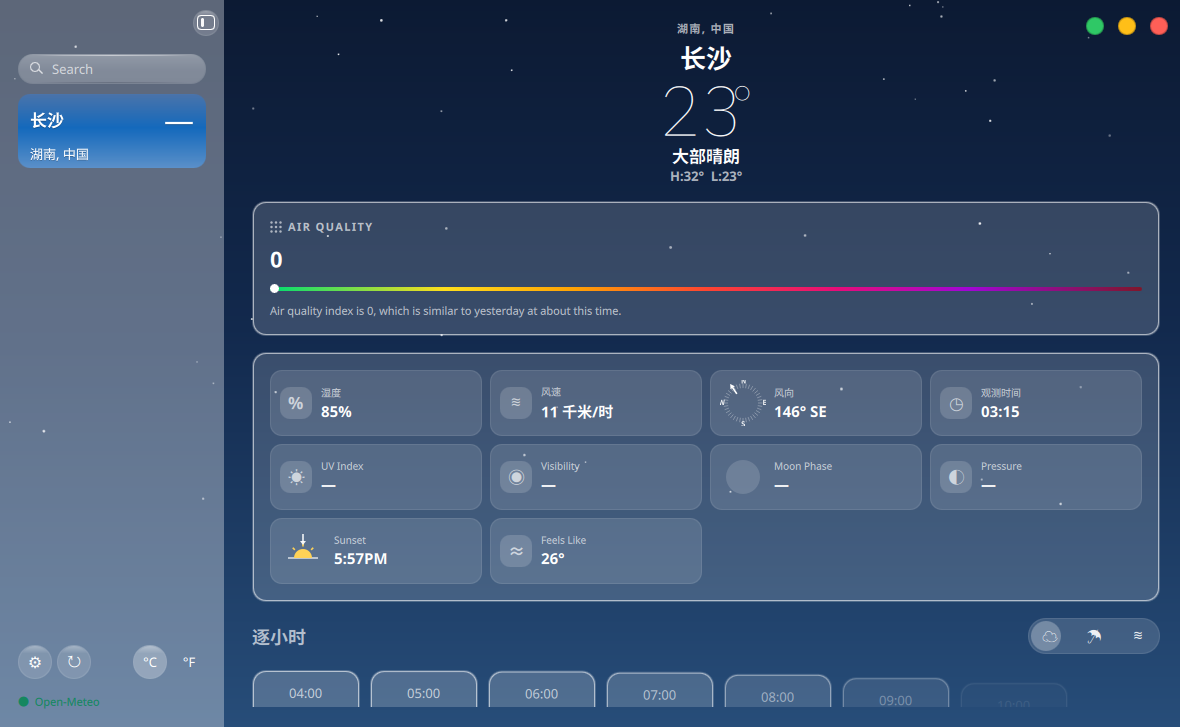
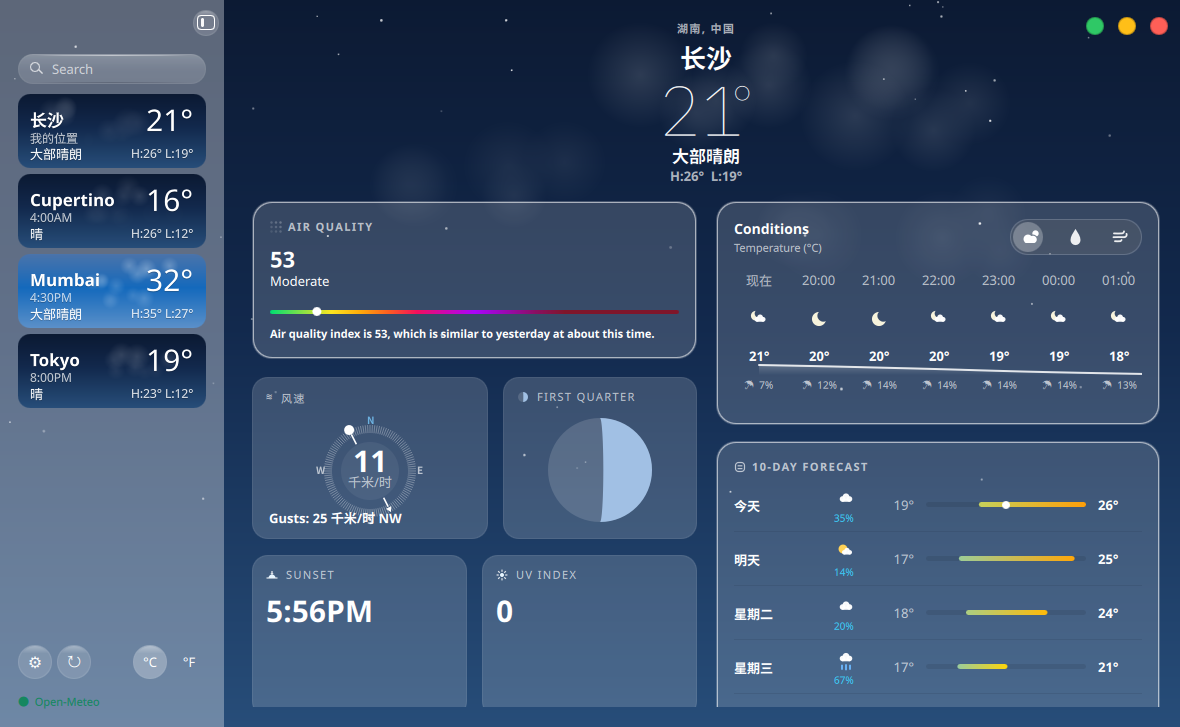
docs: round 53 进度与截图

diff --git a/docs/ui-weather/LEDGER.md b/docs/ui-weather/LEDGER.md
@@ -4,6 +4,10 @@
 参考实测色（814×498 主图采样）：天空 `#2961a7→#1469bc→#538ec9`（上→下，含云照片）；Conditions 卡 `#0057b2`；hero 文本 `#ffffff`；10天条渐变 青→黄→橙。
 
 ## 已改
+- **10 天行恢复暗色全宽轨道（本轮，前端，零 Go/C++/shared/翻译改动，巡检轮新发现，推翻旧"去灰色轨道"轮的测量）**：本轮对照 tile-10day（iPad 原生分辨率切片）+ ref-main Pillow 复测，证实旧记载"ref-main 10 天行无轨道"系测量失误——旧轮把**轨道色** (42,109,179) 误当卡面色，真实卡面 Thu 行是 (49,120,196)；ref-main 五条可见行（Today y346-349 / Thu y382-386 / Fri y419-420 / Sat y455-456 / Sun y491-492）低/高温标签间**整列**均有固定全宽暗轨道：高 ~5px、圆角胶囊、比卡面暗 Δ≈(-7,-12,-16) ≈ 黑@0.08-0.10（各行 α 离散 0.067-0.13）；tile-10day 独立佐证（四行轨道 x266-419、高 ~8-9px、卡面 (44,119,196)→轨道 (42,108,179)）。旧"白@0.28 亮轨道"删除方向仍正确（参考轨道是**暗**的不是亮的）。`apps/weather/qml/Main.qml:3177-3188` 渐变条前插入全宽轨道 Rectangle（x:0 / width:parent.width / height:5 / radius:2.5 / #000000@opacity 0.09，注释标明复测依据）；渐变条几何/渐变/Today 白点/行 delegate 零改动。
+  **实测**（本轮二进制截图 tmp/shots/track-1792324349.png 过体检闸 ✅ 1180×727，dev env + KOS_SCREENSHOT_DELAY_MS=2500）：今天行轨道 (58,81,111) vs 卡面 (64,89,122) = **黑@0.09 精确命中**；星期三行两侧轨道 (65,92,125) vs 卡面 (71,101,137) 夹短渐变 x960-1005（两侧可见=全宽实证）；轨道高 5px（y664-668）与 ref 5px 同；今天行轨道右侧被 uMax=1.0 渐变覆盖与 ref Today 行同构；目视 /tmp/z-10day-new.png：四行渐变下细微暗轨道、与 tile-10day 同构。
+  **回归**（vs 改前 patrol-1792323915，2px 步进 diff>24）：全窗仅 10 采样全落星空/时钟已知噪声族（轨道 Δ≈12 低于该阈值系参考级细微度，非缺席）；10 天卡区 diff>6 共 **1430px 全落 4 条 bar 行 y502-668**、整窗 MAE **0.020**——区外零结构位移。测试 Qt 6/6 绿、go test ok。本轮无动效改动，无帧差义务。
+  **残差**：a) 轨道端头与栏缘的 1-2px 内缩（ref 轨道左端 x638 vs 低标签尾 x636）未做（墨迹级）；b) 黑@0.09 系各行实测 α 的中值折中（ref 0.067-0.13 离散），日景卡面上的观感本轮夜景未覆盖，见外推待确认。
 - **SUNSET/UV 两张卡头 mini glyph 黄色 → 参考实测浅蓝白（本轮，前端，零 Go/C++/shared/翻译改动，巡检轮新发现）**：巡检截图（tmp/shots/patrol-1792323546.png 过体检闸 ✅ 1180×727，dev env + KOS_SCREENSHOT_DELAY_MS=2500）对照 ref-main 实测推翻旧记载"参考卡头图标太小无法采样"——Pillow 扫 ref SUNSET/UV INDEX 卡头 glyph 波段（x262-515 y418-447）：**暖色像素（r-b>25 且 r>120）= 0**、亮像素峰值 (224,240,255)/(239,251,255)（白/浅蓝系，与头部文字同族略亮）；WIND 卡头同检亦 0 暖色；黄色（r>140,g>110,b<130）= 0。我方 `apps/weather/qml/Main.qml:2256`（sunsetGlyphCanvas 太阳半圆 fill）与 `:2358`（UV glyph 日盘 fill）均为 `#ffd257` 黄色，与参考相反。两处 → `"#e7f5ff"`（实测峰值系中上档，注释标明依据），描边/射线/箭头/地平线/几何零改动。
   **实测**（本轮二进制截图 tmp/shots/glyphcolor-1792323775.png 过体检闸 ✅ 1180×727）：SUNSET 半圆采样 (231,245,255)、UV 日盘采样 (231,245,255) = **#e7f5ff 精确命中**；目视 /tmp/z-my-glyphs-new.png：两 glyph 浅蓝白、与头部文字同族协调、无硬边。
   **回归**（vs 改前 patrol-1792323546，2px 步进 diff>72）：变化仅 14 采样——6 落两 glyph 本体、8 稀疏散点 (316,16)/(74,46)/(884,78)/(990,120) 等（星空/时钟已知噪声族），整窗零结构位移。测试 Qt 6/6 绿、go test ok。本轮无动效改动，无帧差义务。
@@ -370,10 +374,11 @@
 15. ~~**分段胶囊水滴 glyph 偏小**~~（**已做**，见已改首条——canvas 12×16→15×20 坐标 ×1.25，墨 8×11→9×15、相对比 0.306→0.417 vs ref 0.386；残差：宽 −1/高 +1 反向各 1px，AA 级不再动。**注意**：同族"云+日偏小"不成立（勿动）；风 glyph 邻域吻合（✓），两条防误改裁定继续有效）。
 
 ## 外推待确认
+- **10 天行暗轨道日景观感未实拍（本轮新增）**：本轮截图时服务为夜态，轨道黑@0.09 在夜卡面 (64,89,122) 上 Δ≈(−6,−9,−12)；日景卡面（白玻璃 α0.30 深蓝）上的轨道可辨度未实拍（ref 全部行样来自日景，α 实测 0.067-0.13 离散取中值 0.09）——若日景下不可辨或过重，需按日景卡面复测 α。另 ref 轨道端头有 1-2px 栏缘内缩未做（墨迹级）。
 - **卡头 glyph #e7f5ff 系降采样稀释折中值（本轮新增）**：ref 814 降采样下小 glyph 与卡面混色，实测峰值 (224,240,255)/(239,251,255) 低于真值——#e7f5ff 取峰值系中上档，真色可能更接近纯白；glyph 与头部文字"同族略亮"的亮度关系系采样推断。若日后拿到原生分辨率参考需重校（同时复测 WeatherIcon 家族太阳色是否也应脱离 #ffd257）。
 - **月相亮面平面均值填充无纹理（本轮新增）**：ref 月亮是带陨石坑纹理的照片，亮面峰值 (228,236,247)、均值 (161,192,228)；我方平面填充取均值 #a1c0e4，无纹理与高光渐变——照片纹理不可程序化逐点复刻（与"侧栏卡云纹理"同口径）；若日后引入程序化斑驳纹理，需以本轮 n=4701 分布（中位 159,189,228 / p90 184,208,234）为校准目标。
 - **"My Location" 以"选中卡"代"定位城"（本轮新增）**：ref 首卡副行 "My Location" 语义是该城为当前定位城（Apple 有定位概念）；本项目无定位城概念，按 LEDGER 既有裁定简化为"选中的卡就显示"——用户手动选中其他城时该卡也会显示"我的位置"，与 Apple 语义有偏差（ref 中未选中定位卡时应显当地时间）。修法需后端引入定位城 id 概念，暂不立轮。
-- **10 天行轨道删除后极淡轨道不可全排除（本轮新增）**：ref 814 降采样下，若 Apple 原生带 ≤0.08 alpha 的极淡轨道，与卡面 Δ~12 可能被降采样+AA 抹到采样阈值以下——本轮按"可见像素=无轨道"删除（旧白@0.28 实测 Δ+53 远超此限，删除方向不受影响）；若日后拿到原生分辨率参考需复核。
+- ~~**10 天行轨道删除后极淡轨道不可全排除**~~（**已收口并反转（2026-10-18 巡检轮）**：轨道**确实存在**——tile-10day（原生分辨率）+ ref-main 复测双证，旧"无轨道"轮系把轨道色 (42,109,179) 误当卡面色；已恢复暗色全宽轨道黑@0.09，见已改首条。旧"白@0.28 亮轨道"删除方向仍正确：参考轨道比卡面**暗**。）
 - **温度曲线带落位对布局偏移敏感（本轮新增）**：曲线带（Main.qml:2677-2679 band 100..110）按"content→real 偏移 +266 + 温度墨底 96 / ☂ 墨顶 114-115"标定，该偏移随 Conditions 卡头部/分段控件上方布局变动而漂移（本轮实证旧值 97..113 就是这样过期的）；未来再动卡头布局需按同法（带值→渲染 real 逐点回归）复测。曲线形态本身仍系用户裁定 1 外推（ref 无曲线），可见段占带比例随快照温度分布浮动（19° 非全天最低时带底不被触及属正常）。
 - **侧栏卡云纹理（本轮新增）**：a) 参考卡背景是**照片**，云的具体形态/覆盖不可程序化逐点复刻——3 朵×4 puff 的 puff 云系主窗 clearSkyClouds/nightClearClouds 同族近似，透明度按"ref Mumbai 夜卡 Δ~11-14 / 我方夜 Δ+35 略强、Cupertino 日卡明显更亮"折中，若要求更贴照片需整体重校；b) ~~晴日卡（code 0-1 日间）形态系外推——日分支未实拍~~（**2026-10-18 多城轮已实拍**：Mumbai 32° code 1 昼卡（截图 1792321838）云带在场、白字可读，形态与参考 Cape Town 昼卡同构；覆盖密度系程序化近似不可逐点对照的结论不变）；c) 多城时各卡种子不同（index 派生），卡间形态差异系程序化设定（ref 各卡来自真实城市照片），方向一致不可逐卡对照——多城实拍下 4 卡形态各异、无越界无裁切；d) 夜卡云上白字可读性实测通过（Δ+35 底上峰值白字），更高 opacity 档不再上调。
 - **逐小时首列 "Now"/现在的本地化与降级（本轮新增）**：a) ref-main 只证英文 "Now"，中文 "现在" 系 Apple zh 官方惯例外推；b) isCurrentHour 用 `substring(0,13)` 小时前缀比较——快照 current.time 与 hourly 首点跨小时边界（陈旧快照）时首列回落 "18:00" 形态不显 "Now"，属正确降级但未实拍；c) 行高钉死 `1.5×font.pixelSize` 系折算（比数字自然行盒高 ~1px，7 列整行均匀下移 1px、列间对齐不变）；d) en_US.ts 无 "Now" 条目（英文源串即显示值），若日后加其它 locale 需同步补条目。
